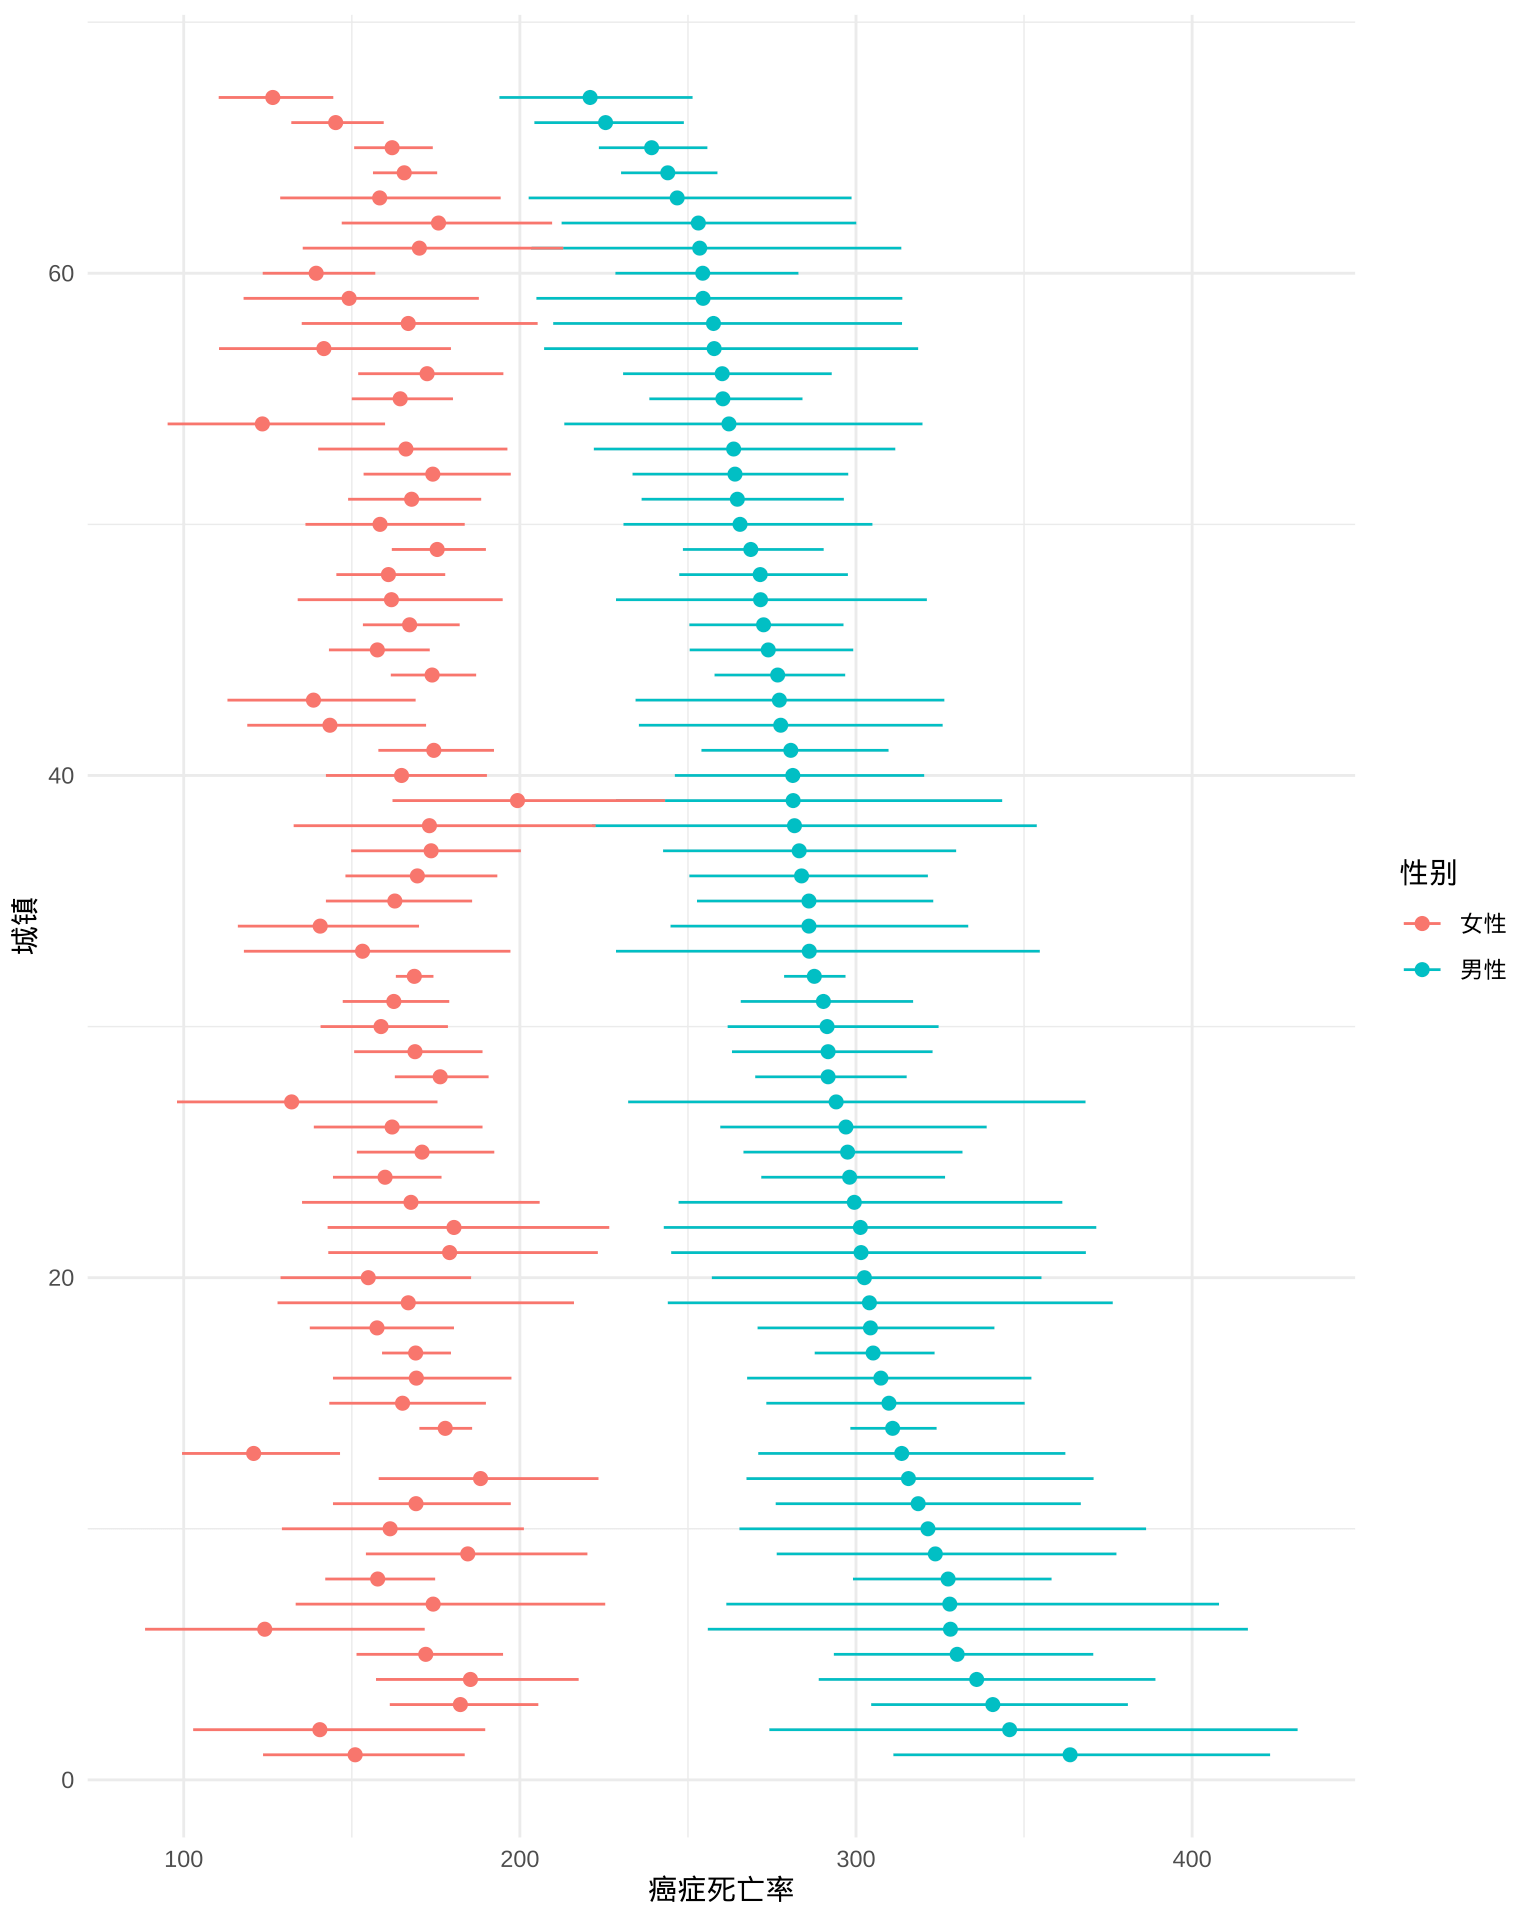
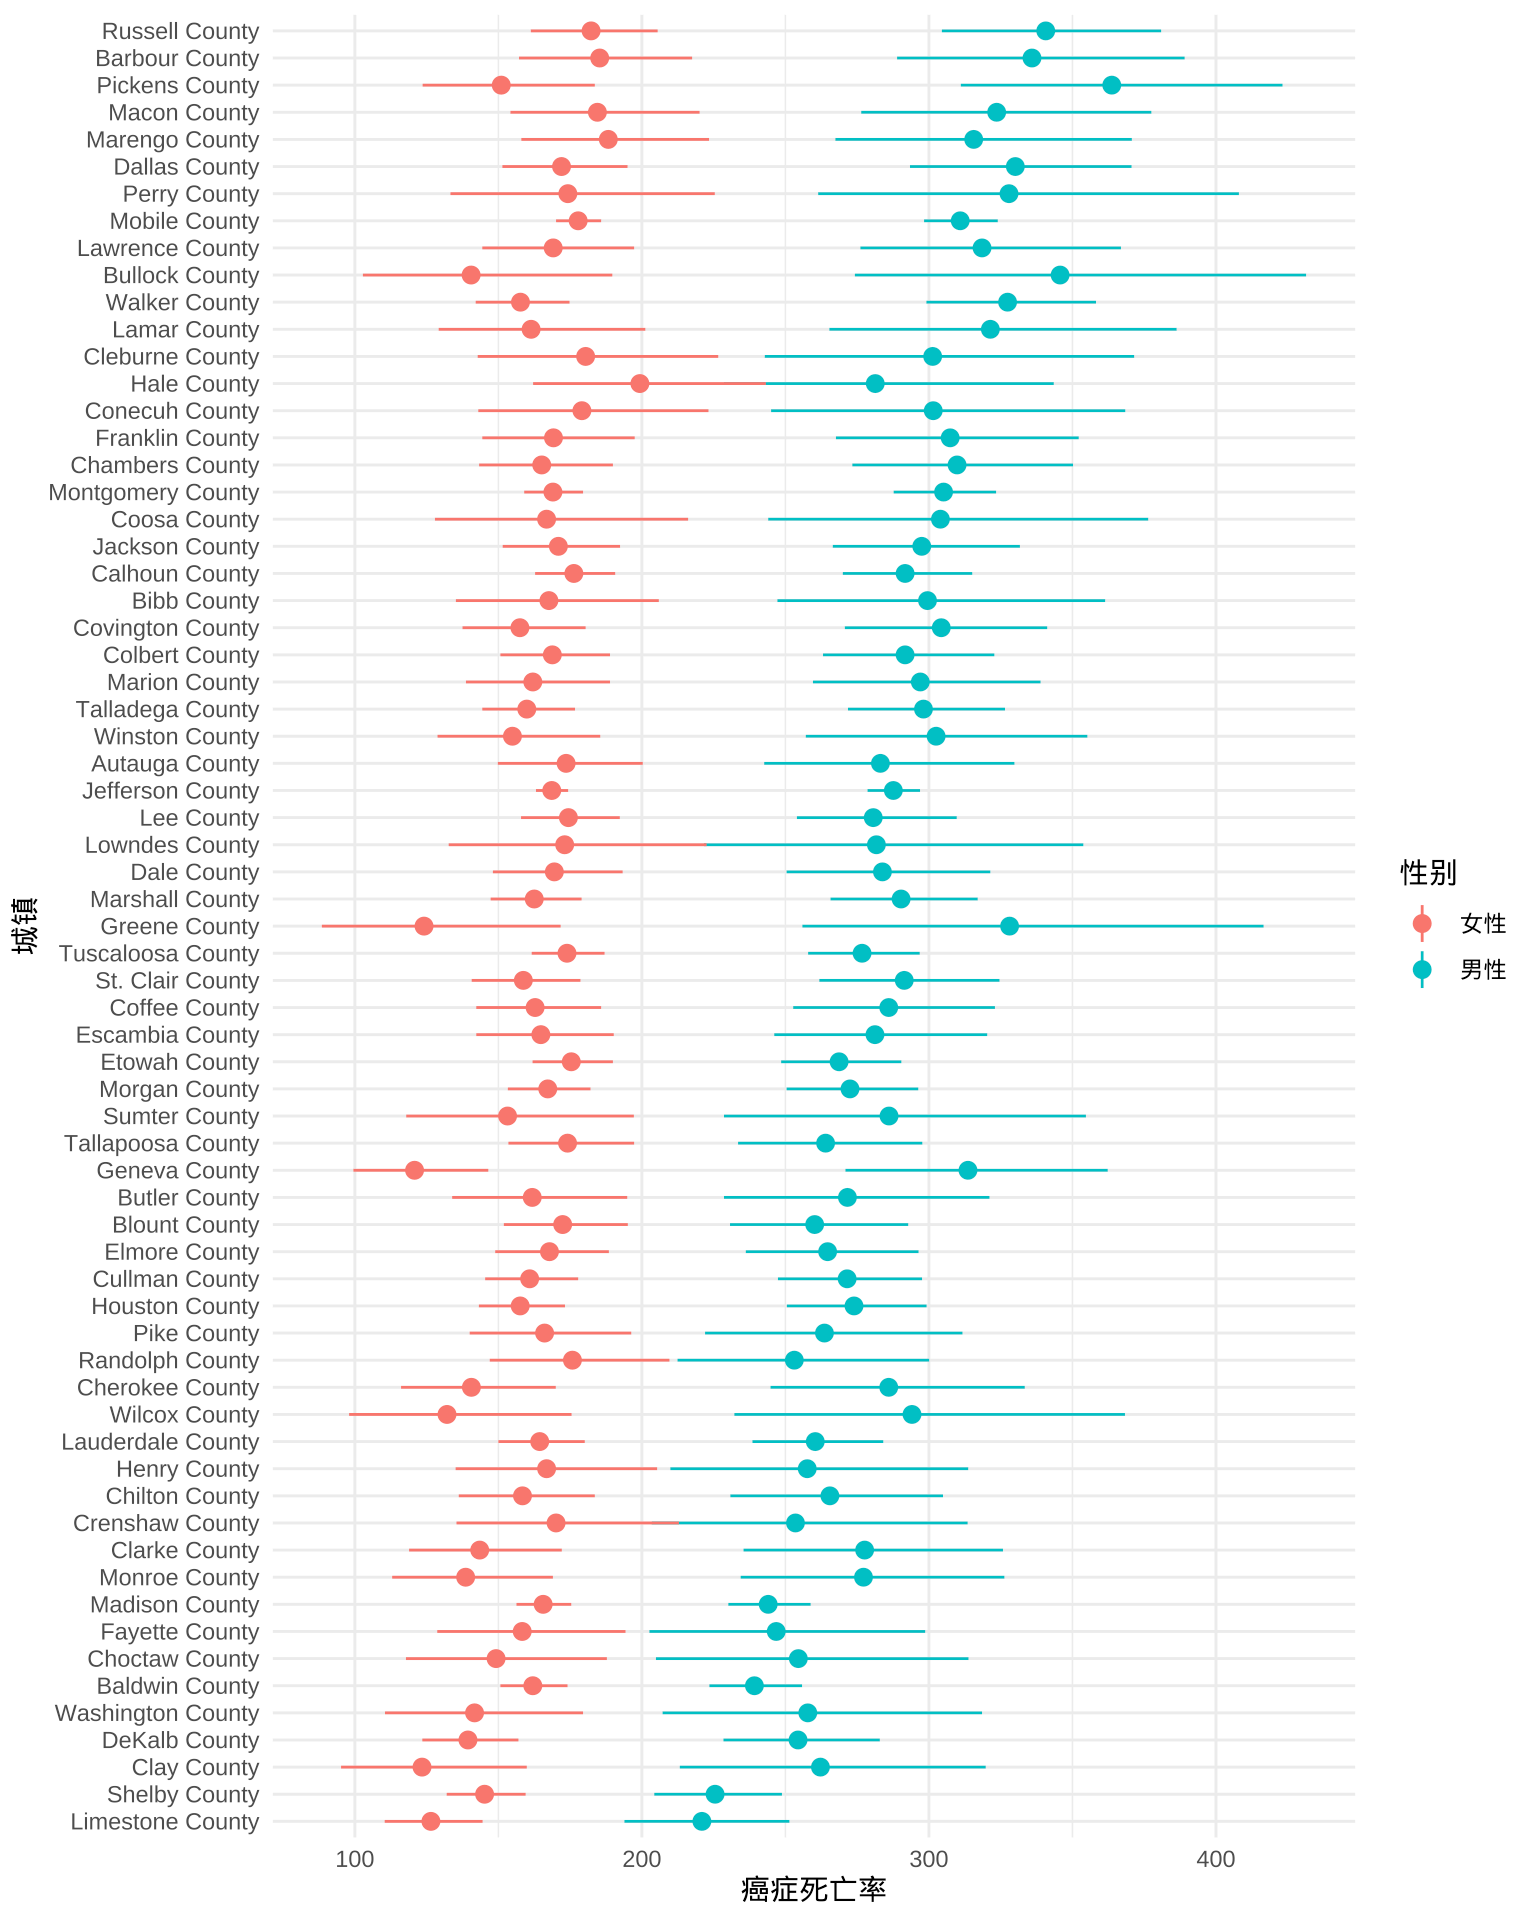
优化 CI Rank 图，用 `geom_pointrange` 替代 `geom_segment`，但 ggplot2 似乎有不能排序的 BUG

Changed region(s): [[0.0312, 0.0, 0.75, 1.0]]

diff --git a/content/post/2022-04-23-choropleth-map/index.html b/content/post/2022-04-23-choropleth-map/index.html
@@ -153,7 +153,7 @@ div.img {
 <h1>单变量情形</h1>
 <div id="美国各城镇的年平均癌症死亡率分布" class="section level2">
 <h2>美国各城镇的年平均癌症死亡率分布</h2>
-<p>下面以 <a href="https://latticeextra.r-forge.r-project.org/"><strong>latticeExtra</strong> 包</a><span class="citation">(<a href="#ref-latticeExtra" role="doc-biblioref">Sarkar and Andrews 2019</a>)</span>内置的 USCancerRates 数据集为例介绍分面，同时展示多个观测指标的空间分布。USCancerRates 数据集来自美国<a href="https://statecancerprofiles.cancer.gov/">美国国家癌症研究所</a>（National Cancer Institute，简称 NCI）。根据1999-2003年的5年数据，分男女统计癌症年平均死亡率（单位十万分之一），这其中的癌症数是所有癌症种类之和。癌症死亡率根据2000年美国<a href="https://seer.cancer.gov/stdpopulations/stdpop.19ages.html">标准人口年龄分组</a>调整，分母人口数量由 NCI 根据普查的人口数调整，即将各年各个年龄段的普查人口数按照 2000 年的<strong>美国标准人口年龄分组</strong>换算。因<strong>latticeExtra</strong> 包没有提供数据集的加工过程，笔者结合 NCI 网站信息，对此数据指标的调整过程略加说明，这里面其实隐含很多的道理。</p>
+<p>下面以 <a href="https://latticeextra.r-forge.r-project.org/"><strong>latticeExtra</strong> 包</a><span class="citation">(<a href="#ref-latticeExtra" role="doc-biblioref">Sarkar and Andrews 2019</a>)</span>内置的 USCancerRates 数据集为例介绍分面，同时展示多个观测指标的空间分布。USCancerRates 数据集来自<a href="https://statecancerprofiles.cancer.gov/">美国国家癌症研究所</a>（National Cancer Institute，简称 NCI）。根据1999-2003年的5年数据，分男女统计癌症年平均死亡率（单位十万分之一），这其中的癌症数是所有癌症种类之和。癌症死亡率根据2000年美国<a href="https://seer.cancer.gov/stdpopulations/stdpop.19ages.html">标准人口年龄分组</a>调整，分母人口数量由 NCI 根据普查的人口数调整，即将各年各个年龄段的普查人口数按照 2000 年的<strong>美国标准人口年龄分组</strong>换算。因<strong>latticeExtra</strong> 包没有提供数据集的加工过程，笔者结合 NCI 网站信息，对此数据指标的调整过程略加说明，这里面其实隐含很多的道理。</p>
 <p>人口数每年都会变的，为使各年数据指标可比，人口划分就保持一致，表<a href="#tab:us-std-pop">1</a> 展示 1940-2000 年各个年龄段（共19个年龄组）的标准人口数，各个年龄段的普查人口数换算成年龄调整的标准人口数，换算公式为：</p>
 <p><span class="math display">\[
 某年龄段标准人口数 = 某年龄段普查人口数 / 总普查人口数 * 1000000.
@@ -411,7 +411,7 @@ div.img {
 </tr>
 </tbody>
 </table>
-<p>年龄调整的比率（Age-adjusted Rates）的定义详见<a href="https://seer.cancer.gov/seerstat/tutorials/aarates/definition.html">网站</a>，它是一个根据年龄调整的加权平均数，权重根据年龄段人口在标准人口中的比例来定，一个包含年龄 <span class="math inline">\(x\)</span> 到年龄 <span class="math inline">\(y\)</span> 的分组，其年龄调整的比率计算公式如下：</p>
+<p>年龄调整的比率（Age-adjusted Rates）的定义详见<a href="https://seer.cancer.gov/seerstat/tutorials/aarates/definition.html">NCI 网站</a>，它是一个根据年龄调整的加权平均数，权重根据年龄段人口在标准人口中的比例来定，一个包含年龄 <span class="math inline">\(x\)</span> 到年龄 <span class="math inline">\(y\)</span> 的分组，其年龄调整的比率计算公式如下：</p>
 <p><span class="math display">\[
 aarate_{x-y} = \sum_{i=x}^{y}\Big[ \big( \frac{count_i}{pop_i} \big)  \times \big( \frac{stdmil_i}{\sum_{j=x}^{y} stdmil_j} \big) \times 100000 \Big]
 \]</span></p>
@@ -439,9 +439,9 @@ subset(x = USCancerRates, subset = state == &quot;Alabama&quot; &amp; county == 
 # [1] 401</code></pre>
 <p>而美国国家癌症研究所给的置信带更宽，更保守一些，显然这里面的算法没这么简单。以阿拉巴马州为例，将所有的城镇死亡率及其置信区间绘制出来，如图<a href="#fig:alabama-ci-rank">1</a>所示，整体来说，偏离置信区间中心都不太远。</p>
 <div class="figure" style="text-align: center"><span style="display:block;" id="fig:alabama-ci-rank"></span>
-<img src="{{< blogdown/postref >}}index_files/figure-html/alabama-ci-rank-1.png" alt="1999-2003 年美国阿拉巴马州各个城镇的年平均癌症死亡率 CI Rank" width="768" />
+<img src="{{< blogdown/postref >}}index_files/figure-html/alabama-ci-rank-1.png" alt="1999-2003 年美国阿拉巴马州各个城镇的年平均癌症死亡率" width="768" />
 <p class="caption">
-图 1: 1999-2003 年美国阿拉巴马州各个城镇的年平均癌症死亡率 CI Rank
+图 1: 1999-2003 年美国阿拉巴马州各个城镇的年平均癌症死亡率
 </p>
 </div>
 <p>不难看出，女性癌症死亡率整体上低于男性，且各个地区的死亡率有明显差异。NCI <a href="https://statecancerprofiles.cancer.gov/confidenceintervals.html">网站</a>仅对置信区间的统计意义给予解释，这跟统计学课本上没有太多差别，没有提供具体的计算过程。可以推断的是必然使用了泊松、伽马一类的偏态分布来刻画死亡人数的分布，疑问尚未解开，欢迎大家讨论。</p>
@@ -1079,7 +1079,7 @@ ggdraw() +
 # 
 # Package version:
 #   biscale_0.2.0       blogdown_1.9        cowplot_1.1.1      
-#   ggplot2_3.3.5       grid_4.2.0          knitr_1.39         
+#   ggplot2_3.3.6       grid_4.2.0          knitr_1.39         
 #   lattice_0.20-45     latticeExtra_0.6-29 mapproj_1.2.8      
 #   maps_3.4.0          mapsf_0.4.0         rmarkdown_2.14     
 #   sf_1.0-7            tidycensus_1.2.1    tmap_3.3-3         
